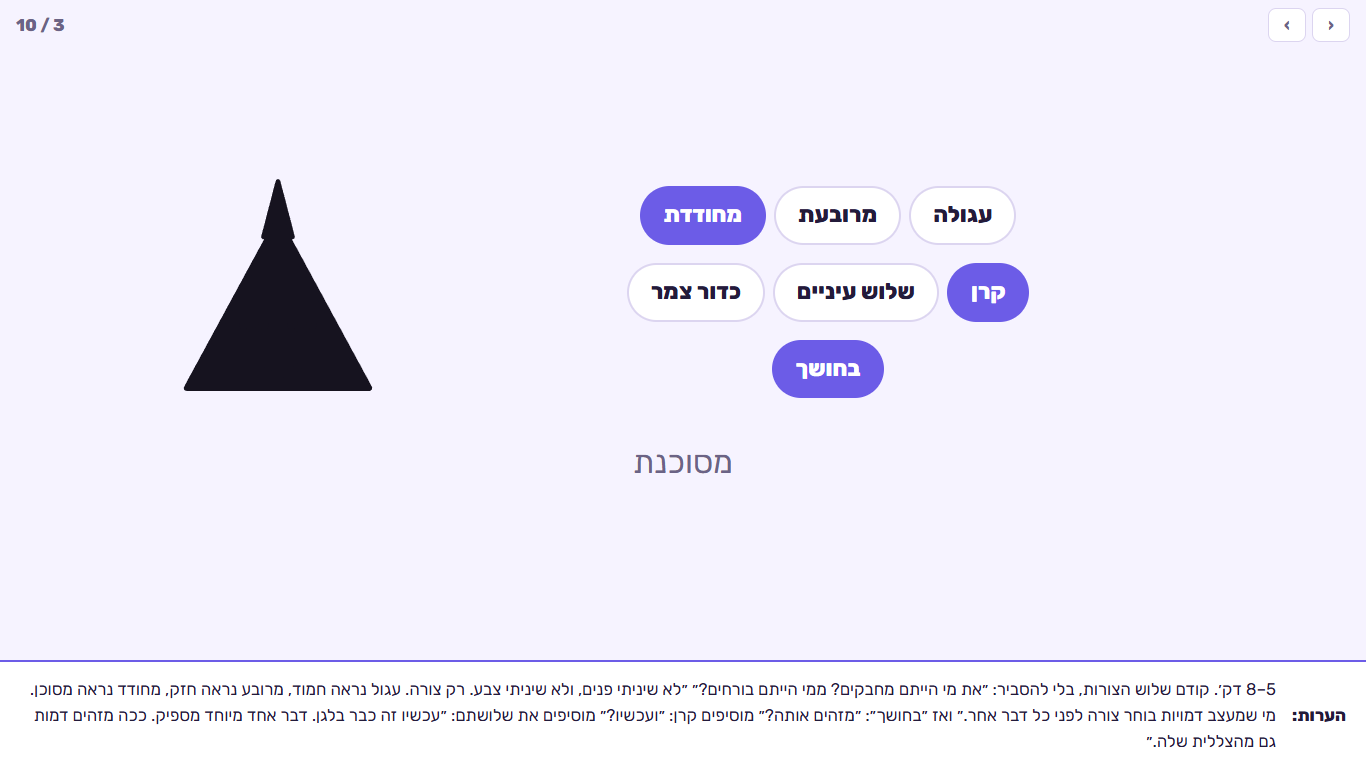
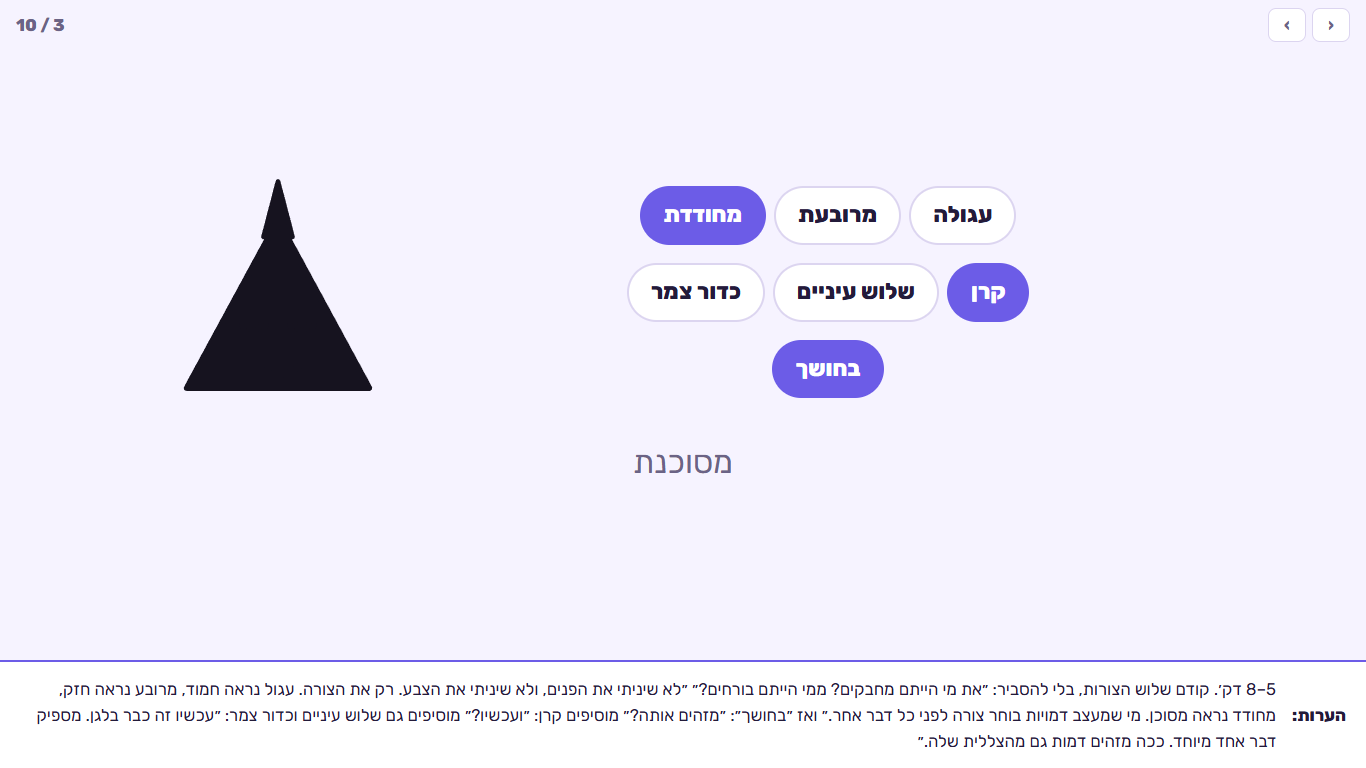
Meeting 1 Hebrew: audits 3 and 4 applied (one name per thing, gender-neutral student messages, experiments that say what to look for)

Changed region(s): [[0.0307, 0.875, 0.9224, 0.9688]]

diff --git a/webapp-course/m1/build/hub_v3_slides.js b/webapp-course/m1/build/hub_v3_slides.js
@@ -79,26 +79,26 @@ const S1 = [
       r.querySelectorAll("#shapes button").forEach(b => b.addEventListener("click", () => { sh = +b.dataset.i; paint(); hop(r.querySelector("#t3")); }));
       r.querySelectorAll("#extras button").forEach(b => b.addEventListener("click", () => { const i = +b.dataset.i; ex.has(i) ? ex.delete(i) : ex.add(i); paint(); }));
       r.querySelector("#sil").addEventListener("click", () => { sil = !sil; paint(); }); paint(); },
-    notes:"5–8 דק׳. קודם שלוש הצורות, בלי להסביר: ״את מי הייתם מחבקים? ממי הייתם בורחים?״ ״לא שיניתי פנים, ולא שיניתי צבע. רק צורה. עגול נראה חמוד, מרובע נראה חזק, מחודד נראה מסוכן. מי שמעצב דמויות בוחר צורה לפני כל דבר אחר.״ ואז ״בחושך״: ״מזהים אותה?״ מוסיפים קרן: ״ועכשיו?״ מוסיפים את שלושתם: ״עכשיו זה כבר בלגן. דבר אחד מיוחד מספיק. ככה מזהים דמות גם מהצללית שלה.״" },
+    notes:"5–8 דק׳. קודם שלוש הצורות, בלי להסביר: ״את מי הייתם מחבקים? ממי הייתם בורחים?״ ״לא שיניתי את הפנים, ולא שיניתי את הצבע. רק את הצורה. עגול נראה חמוד, מרובע נראה חזק, מחודד נראה מסוכן. מי שמעצב דמויות בוחר צורה לפני כל דבר אחר.״ ואז ״בחושך״: ״מזהים אותה?״ מוסיפים קרן: ״ועכשיו?״ מוסיפים גם שלוש עיניים וכדור צמר: ״עכשיו זה כבר בלגן. מספיק דבר אחד מיוחד. ככה מזהים דמות גם מהצללית שלה.״" },
 
   { html:`<div class="toybox" id="t4"></div><p class="sub">מה היא הכי רוצה?</p><div class="chips big" id="wants">${WANTS.map((x, i) => `<button data-i="${i}">${x[0]}</button>`).join("")}</div>`,
     mount: r => { const paint = i => { r.querySelector("#t4").innerHTML = toy(Object.assign({}, POP, { sad: true, say: i == null ? "אני רעבה." : WANTS[i][1] })); r.querySelectorAll("#wants button").forEach((b, k) => b.classList.toggle("on", k === i)); if (i != null) hop(r.querySelector("#t4")); };
       r.querySelectorAll("#wants button").forEach(b => b.addEventListener("click", () => paint(+b.dataset.i))); paint(null); },
-    notes:"8–10 דק׳. ״היא רעבה. מה היא אומרת? תלוי מה היא רוצה.״ לוחצים על שלושתם. ״אותה חיה, אותו ציור, אותו רעב. ויצאו שלוש חיות שונות לגמרי. האופי שלה הוא לא הציור. האופי שלה הוא מה שהיא רוצה, ואיך היא מדברת בגלל זה.״" },
+    notes:"8–10 דק׳. ״היא רעבה. מה היא אומרת? תלוי מה היא רוצה.״ לוחצים על שלושתם. ״אותה חיה, אותו ציור, אותו רעב. ויצאו שלוש חיות שונות לגמרי. האופי שלה הוא לא הציור. האופי שלה הוא מה שהיא רוצה, ואיך שהיא מדברת בגלל זה.״" },
 
   { html:`<div class="plan"><div class="pcol" data-c="0"><b>רואים</b><small>הדף</small></div><div class="pcol" data-c="1"><b>עושים</b><small>השרת</small></div><div class="pcol" data-c="2"><b>זוכרת</b><small>הגיליון</small></div></div><div class="chips big" id="pool">${PLAN.map((x, i) => `<button data-i="${i}">${x[0]}</button>`).join("")}</div><button class="btn go" id="names">ובאפליקציה?</button>`,
     mount: r => { r.querySelectorAll("#pool button").forEach(b => b.addEventListener("click", () => { const c = r.querySelector(`.pcol[data-c="${PLAN[+b.dataset.i][1]}"]`); b.classList.add("on"); c.appendChild(b); hop(b); }));
       r.querySelector("#names").addEventListener("click", () => r.querySelector(".plan").classList.add("named")); },
-    notes:"10–13 דק׳. ״זאת התוכנית של פופקורן. כל דבר בה שייך לאחד משלושה מקומות.״ על כל פתק שואלים את הכיתה לאן, ולוחצים עליו. ״כפתור: לדגדג״ שייך ל״עושים״: ״הכפתור עצמו נמצא על המסך. אבל כשלוחצים עליו, מישהו צריך לעשות משהו.״ בסוף ״ובאפליקציה?״: ״לשלושת המקומות האלה יש שמות. מה שרואים זה הדף. מי שעושה זה השרת. ומה שהיא זוכרת נמצא בגיליון. תכננתם חיה, ויצאה לכם תוכנית של אפליקציה.״" },
+    notes:"10–13 דק׳. ״זאת התוכנית של פופקורן. כל דבר בה שייך לאחד משלושה מקומות.״ על כל פתק שואלים את הכיתה לאן, ולוחצים עליו. ״כפתור: לדגדג״ שייך ל״עושים״: ״הכפתור עצמו נמצא על המסך. אבל מה שקורה כשלוחצים עליו, את זה מישהו צריך לעשות.״ בסוף ״ובאפליקציה?״: ״לשלושת המקומות האלה יש שמות. מה שרואים זה הדף. מי שעושה זה השרת. ומה שהיא זוכרת נמצא בגיליון. תכננתם חיה, ויצאה לכם תוכנית של אפליקציה.״" },
 
   { html:`<div class="dia"><div class="dc page"><b>הדף</b><div class="toybox sm">${toy({ c: "#8C7FFF", big: true })}</div><div class="dbar"><i></i></div><span class="dnum">50</span><small class="dsay"></small><button class="btn" data-a="feed">להאכיל 🍎</button></div>
       <div class="dc srv"><b>השרת</b><span class="ico">⚙</span></div>
       <div class="dc sheet"><b>הגיליון</b><table class="m-sheet"><tr><th>key</th><th>value</th></tr><tr><td>full</td><td class="cell">50</td></tr></table></div>
       <div class="lane"><span class="pkt" hidden></span></div></div>
     <div class="dctl"><button class="btn" data-a="refresh">רענון</button><button class="btn" data-a="close">סוגרים את הדף</button><button class="btn" data-a="friend">דף של חבר</button><button class="btn" data-a="kill">מכבים את השרת</button><div class="dc friend" hidden><b>הדף של חבר</b><span class="dnum"></span></div></div>
-    <p class="sub">הדף מראה · השרת מחליט · הגיליון זוכר</p>`,
+    <p class="sub">הדף מראה · השרת עושה · הגיליון זוכר</p>`,
     mount: diaMount,
-    notes:"13–16 דק׳. ״ועכשיו נראה איך שלושת המקומות האלה עובדים.״ לוחצים ״להאכיל״: ״הדף לא יודע כלום. הוא מבקש מהשרת, והשרת כותב בגיליון.״ ״רענון״: ״דף שוכח הכול. הוא שואל שוב, ומקבל את התשובה מהגיליון.״ ״סוגרים את הדף״: ״החיה מתה? לא. היא בגיליון.״ ״דף של חבר״: ״כל דף שייפתח, שלי, שלכם, של חבר, שואל את אותו שרת.״ ״מכבים את השרת״ ואז ״להאכיל״: ״בלי שרת, הדף הוא סתם ציור.״ ולסיום: ״כל אפליקציה שיש לכם בטלפון בנויה ככה. משהו שרואים, מישהו שמחליט, ומשהו שזוכר.״" },
+    notes:"13–16 דק׳. ״ועכשיו נראה איך שלושת המקומות האלה עובדים.״ לוחצים ״להאכיל״: ״הדף לא יודע כלום. הוא מבקש מהשרת, והשרת כותב בגיליון.״ ״רענון״: ״דף שוכח הכול. הוא שואל שוב את השרת, והשרת עונה לפי הגיליון.״ ״סוגרים את הדף״: ״החיה מתה? לא. היא בגיליון.״ ״דף של חבר״: ״כל דף שייפתח, שלי, שלכם, של חבר, שואל את אותו שרת.״ ״מכבים את השרת״ ואז ״להאכיל״: ״בלי שרת, הדף הוא סתם ציור.״ ולסיום: ״כמעט כל אפליקציה שיש לכם בטלפון בנויה ככה. משהו שרואים, מישהו שעושה, ומשהו שזוכר.״" },
 
   { html:`<div class="duo"><div class="who"><span class="ico">🎨</span><b>אתם</b><span class="bub" id="bub">תעשה לי חיה</span><div class="dctl"><button class="btn" data-a="vague">״תעשה לי חיה״</button><button class="btn go" data-a="plan">עם התוכנית</button></div></div><div class="who"><span class="ico">🤖</span><b>ג׳מיני</b><div class="toybox" id="guess"><span class="q">?</span></div></div></div><p class="sub">מה שלא אמרתם, הוא מנחש</p>`,
     mount: r => { const g = r.querySelector("#guess");
@@ -113,7 +113,7 @@ const S1 = [
     notes:"18–20 דק׳. לוחצים ״הלאה״, הודעה אחרי הודעה. ״לא חייבים לתת לו פקודות. אפשר לדבר איתו. תגידו לו: תשאל אותי קודם. תגידו לו: תן לי שלוש אפשרויות. הוא מציע, ואתם מחליטים.״" },
 
   { html:`<div class="two"><div class="col"><span class="bub">זה לא יפה, תתקן</span><button class="btn" data-a="bad">לשלוח</button><div class="toybox" id="bad">${toy({ c: "#9B6BFF", horn: true, bent: true, name: "פופקורן" })}</div></div>
-      <div class="col"><span class="bub">שנה רק את העיניים: גדולות פי שניים</span><button class="btn" data-a="good">לשלוח</button><div class="toybox" id="good">${toy({ c: "#9B6BFF", horn: true, bent: true, name: "פופקורן" })}</div></div></div>
+      <div class="col"><span class="bub">תשנה רק את העיניים: גדולות פי שניים</span><button class="btn" data-a="good">לשלוח</button><div class="toybox" id="good">${toy({ c: "#9B6BFF", horn: true, bent: true, name: "פופקורן" })}</div></div></div>
     <button class="btn go" data-a="bug">ואם משהו נשבר?</button><div class="bugcard" id="bugcard" hidden><b>מה עשיתי</b><b>מה ציפיתי שיקרה</b><b>מה קרה בפועל</b><b>ההודעה האדומה</b></div>`,
     mount: r => { r.querySelector("[data-a=bad]").addEventListener("click", () => { const b = r.querySelector("#bad"); b.innerHTML = toy({ c: "#7BD389", sq: true, eyes3: true, sad: true, name: "?!" }); hop(b); });
       r.querySelector("[data-a=good]").addEventListener("click", () => { const g = r.querySelector("#good"); g.innerHTML = toy({ c: "#9B6BFF", horn: true, bent: true, big: true, name: "פופקורן" }); hop(g); });
@@ -122,5 +122,5 @@ const S1 = [
 
   { html:`<div class="path" id="path"><div><span>🥚</span><b>ביצה</b></div><i>←</i><div><span>🐣</span><b>בוקעת</b></div><i>←</i><div><span>👆</span><b>כפתור משלי</b></div><i>←</i><div><span>🤝</span><b>חבר</b></div></div>`,
     mount: r => { let n = 0; const d = [...r.querySelectorAll("#path > div")], go = () => { n = (n % d.length) + 1; d.forEach((x, i) => x.classList.toggle("on", i < n)); }; r.querySelector("#path").addEventListener("click", go); go(); },
-    notes:"22 דק׳, ונשאר על המקרן עד הסוף. ״מתחילים מביצה: אפליקציה אמיתית, אבל ריקה. אתם וג׳מיני גורמים לה לבקוע. אחר כך ממציאים לה כפתור שאין לאף חיה אחרת. ובסוף חבר לוחץ עליו מהמחשב שלו.״ כולם בדף של הקורס, ״להתחיל״. בזמן העבודה: מי שתקוע פותח ״נתקעתי״ בתחתית השלב, אחר כך שואל את השכן, ורק אז אותך. בדקה 78: שלושה־ארבעה מראים את החיה שלהם על המקרן, עם הגיליון לידה. כולם שומרים עותק." }
+    notes:"22 דק׳, ונשאר על המקרן עד הסוף. ״מתחילים מביצה: אפליקציה אמיתית, אבל ריקה. אתם וג׳מיני גורמים לה לבקוע. אחר כך ממציאים לה כפתור שאין לאף חיה אחרת. ובסוף חבר לוחץ עליו מהמחשב שלו.״ כולם בדף של הקורס, ״להתחיל״. בזמן העבודה: מי שתקוע פותח ״נתקעתי״ בתחתית השלב, אחר כך שואל את השכן, ורק אז אותך. בדקה 78: שלושה־ארבעה מראים את החיה שלהם על המקרן, עם הגיליון לידה. כולם מגבים: יוצרים עותק של הגיליון." }
 ];

diff --git a/webapp-course/m1/pet/Engine.html b/webapp-course/m1/pet/Engine.html
@@ -36,7 +36,7 @@ var server = (function () {
     document.getElementById("eng-visits").textContent = v.length ? "ביקרו לאחרונה: " + v.join(", ") : "";
   }
   function redraw() {
-    try { if (typeof draw === "function") draw(); } catch (e) { strip("משהו נשבר ב-draw. מעתיקים את השורה הזאת לג׳מיני:", String(e && e.message || e)); }
+    try { if (typeof draw === "function") draw(); } catch (e) { strip("משהו נשבר ב־draw. מעתיקים את השורה הזאת לג׳מיני:", String(e && e.message || e)); }
     foot();
   }
   function show(p) {
@@ -67,7 +67,7 @@ var server = (function () {
     strip("משהו נשבר בדף. מעתיקים את השורה הזאת לג׳מיני:", (e.message || "שגיאה") + (e.lineno ? "  (שורה " + e.lineno + ")" : ""));
   });
   window.addEventListener("load", function () {
-    if (typeof draw !== "function") strip("הקובץ Pet.html לא שלם: אין בו את הפונקציה draw. כנראה שג׳מיני הפסיק באמצע. כותבים לו: ״הפסקת באמצע. תשלח שוב את הקובץ המלא, עד END Pet.״");
+    if (typeof draw !== "function") strip("הקובץ Pet.html לא שלם: חסרה בו הפונקציה draw. כנראה שג׳מיני נעצר באמצע. כותבים לו: ״נעצרת באמצע. תשלח שוב את הקובץ המלא, עד END Pet.״");
     load();
     setInterval(function () { if (!busy && !document.hidden) load(); }, 5000);   // כל 5 שניות: שואלים את השרת מה חדש
   });
